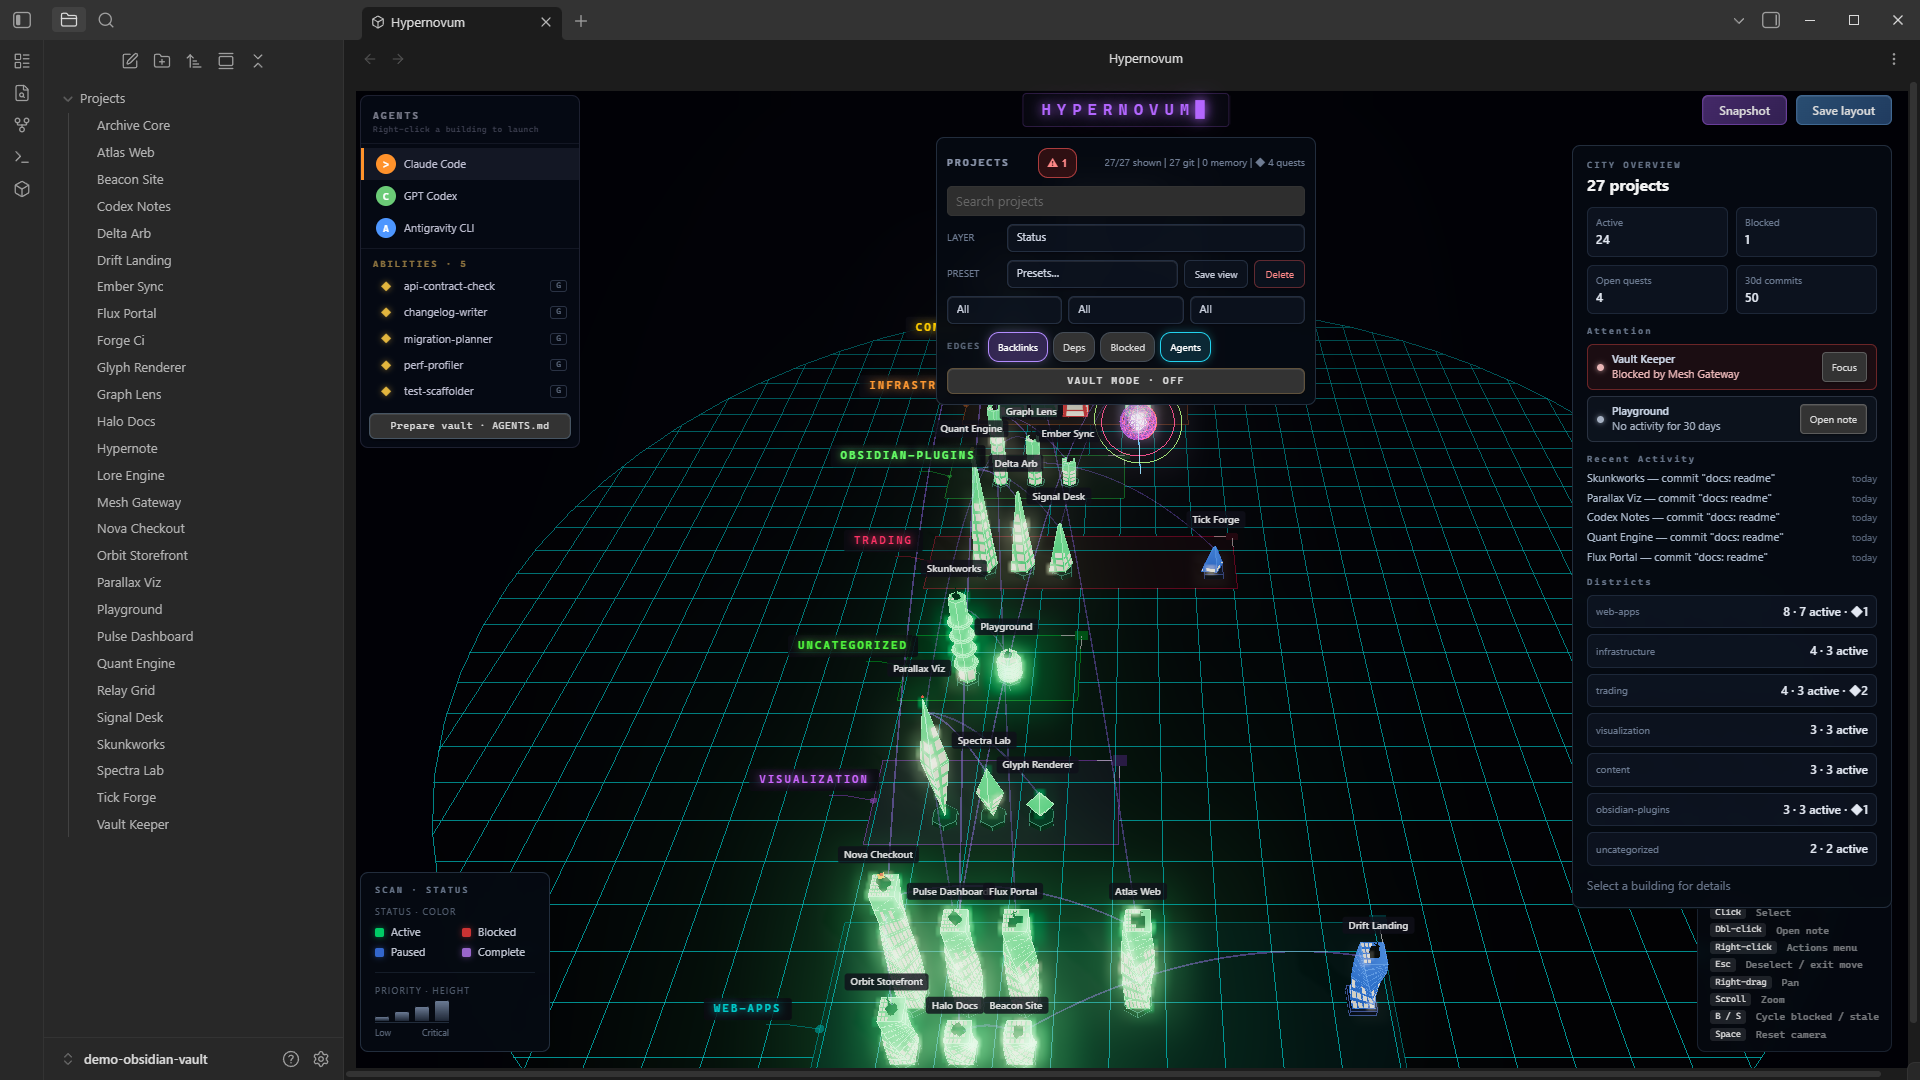
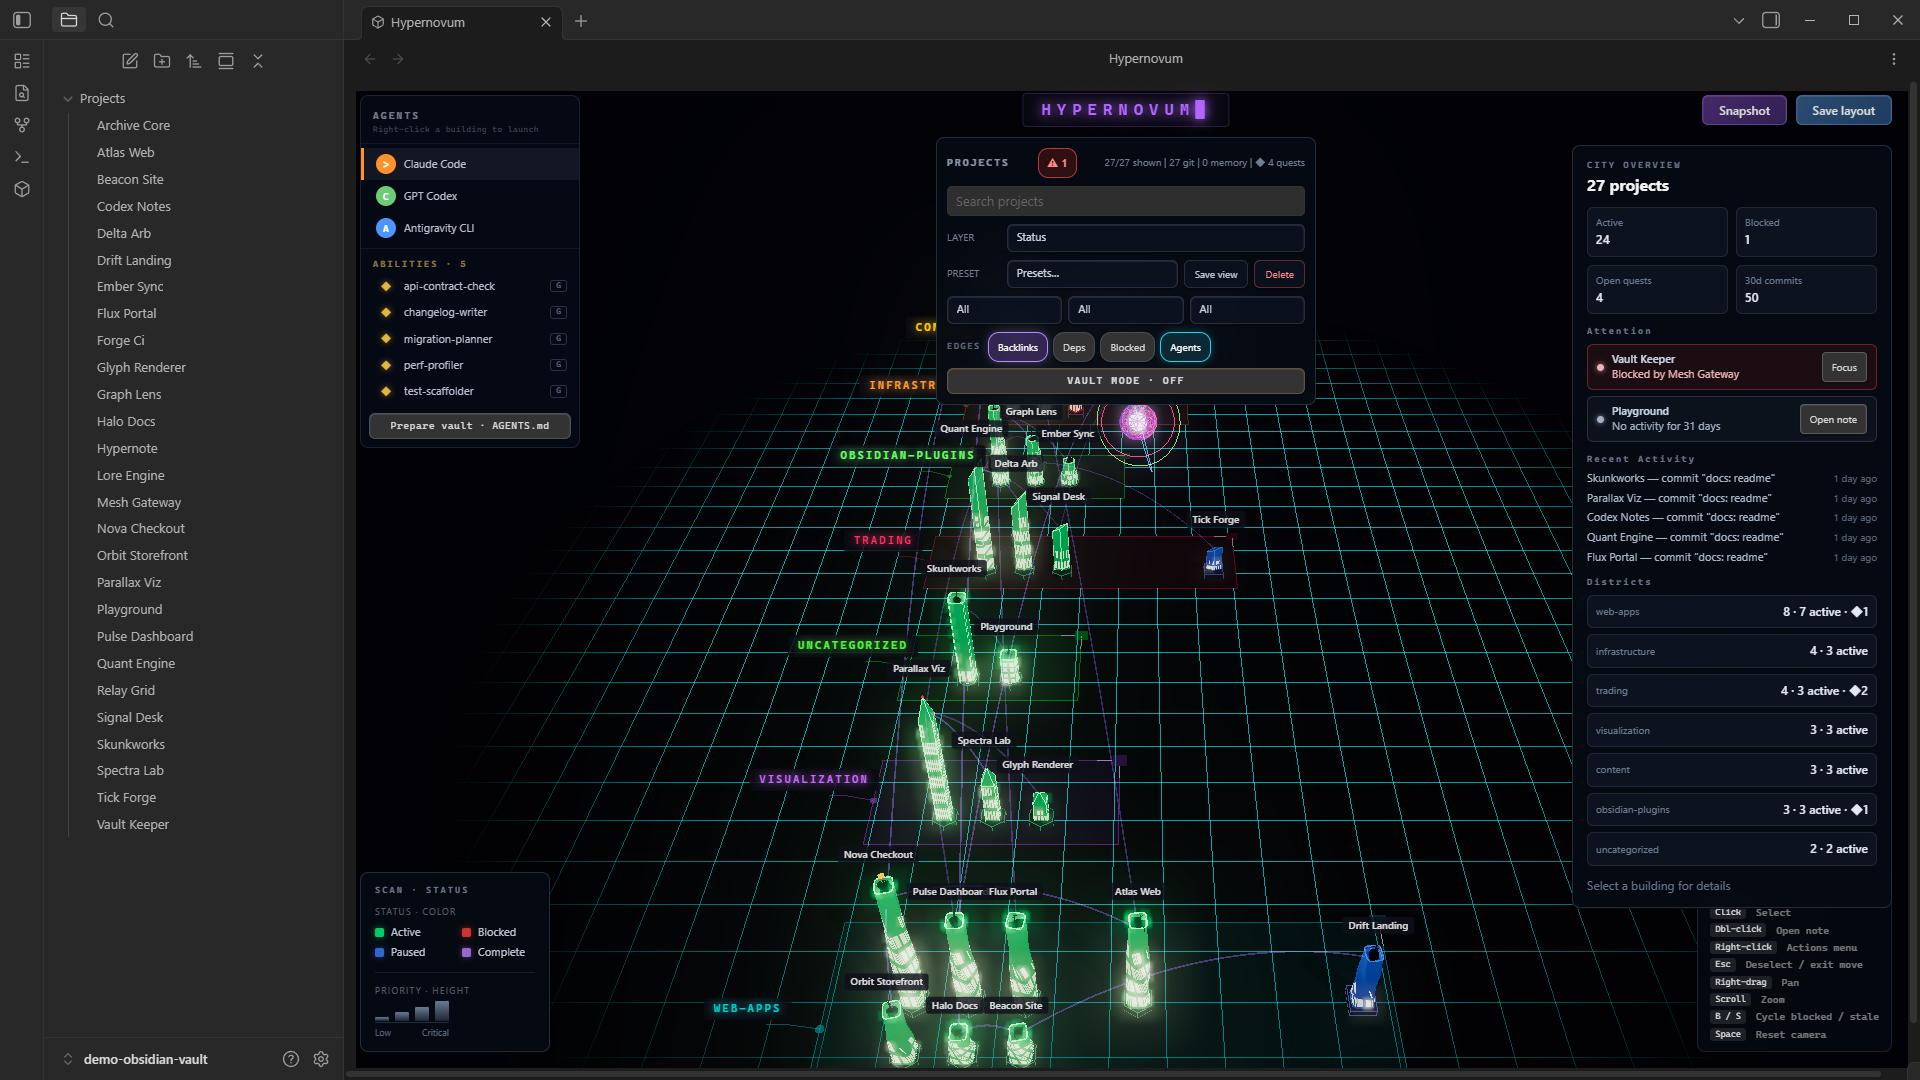
feat: make parametric buildings the default
Flipping DEFAULT_SETTINGS alone would have stranded every current user: they
all have `buildingStyle: 'classic'` persisted, so the new city would only
ever appear on fresh installs. Nobody chose classic deliberately — it WAS the
default and picking it was a no-op, so anyone who touched the setting chose
parametric. loadSettings carries a stored 'classic' over exactly once and
records that it did, so a user who then switches back to classic stays there.
Classic remains selectable and its code path is unchanged.

The listing screenshots were shot in classic this morning, so the default
flip made them stale again — all five are recaptured on the parametric city
with the faded grid. The README's feature list also still named the classic
silhouettes (helix towers, data shards, ziggurats...) and still called
parametric opt-in; both corrected.

Settings tests updated, plus four new ones covering the migration itself:
an existing install moves, a deliberate switch back to classic sticks, an
early adopter on parametric is left alone, and a fresh install just takes
the default. The test fixture that mirrors DEFAULT_SETTINGS by hand had
drifted — it is back in sync, which is the drift its own header warns about.

282 tests. Verified against the built bundle rather than the source: the
shipped main.js carries buildingStyle:"parametric" as its only default.

diff --git a/packages/obsidian-plugin/test/settings-merge.test.ts b/packages/obsidian-plugin/test/settings-merge.test.ts
@@ -13,6 +13,7 @@ const PLUGIN_DEFAULTS = {
   vaultMode: false,
   interactionHintShown: false,
   savedLenses: [],
+  buildingStyleMigrated: false,
 };
 
 describe('settings default-merge', () => {
@@ -26,7 +27,7 @@ describe('settings default-merge', () => {
     };
     const merged = Object.assign({}, PLUGIN_DEFAULTS, oldData);
 
-    expect(merged.buildingStyle).toBe('classic');
+    expect(merged.buildingStyle).toBe('parametric'); // default flipped in 0.4.2
     expect(merged.interactionHintShown).toBe(false);
     expect(merged.savedLenses).toEqual([]);
     // Existing values preserved
@@ -43,7 +44,7 @@ describe('settings default-merge', () => {
 
   it('empty data.json loads full defaults (fresh install)', () => {
     const merged = Object.assign({}, PLUGIN_DEFAULTS, {});
-    expect(merged.buildingStyle).toBe('classic');
+    expect(merged.buildingStyle).toBe('parametric'); // default flipped in 0.4.2
     expect(merged.vaultMode).toBe(false);
     expect(merged.savedLenses).toEqual([]);
     expect(merged.agentName).toBe('Claude Code');
@@ -59,7 +60,7 @@ describe('settings default-merge', () => {
     const merged = Object.assign({}, PLUGIN_DEFAULTS, midData);
     expect(merged.interactionHintShown).toBe(true);   // preserved
     expect(merged.vaultMode).toBe(true);              // preserved
-    expect(merged.buildingStyle).toBe('classic');     // filled
+    expect(merged.buildingStyle).toBe('parametric'); // default flipped in 0.4.2     // filled
     expect(merged.savedLenses).toEqual([]);           // filled
   });
 
@@ -72,5 +73,45 @@ describe('settings default-merge', () => {
     expect(merged.buildingStyle).toBe('parametric');
     expect(merged.savedLenses).toHaveLength(1);
     expect(merged.savedLenses[0].edgeTypes).toEqual(['blocked-by']);
+  });
+});
+
+
+// Mirrors the buildingStyle migration in HypernovumPlugin.loadSettings(). The
+// flip is only useful if EXISTING installs move too: they all have 'classic'
+// persisted, so changing DEFAULT_SETTINGS alone would strand every current
+// user on the old silhouettes.
+function migrateBuildingStyle(stored: Record<string, unknown> | null) {
+  const merged: Record<string, unknown> = { ...PLUGIN_DEFAULTS, ...(stored ?? {}) };
+  if (stored && !stored.buildingStyleMigrated) {
+    if (stored.buildingStyle === 'classic') merged.buildingStyle = 'parametric';
+    merged.buildingStyleMigrated = true;
+  }
+  return merged;
+}
+
+describe('buildingStyle 0.4.2 migration', () => {
+  it('carries an existing install off the old default exactly once', () => {
+    const m = migrateBuildingStyle({ buildingStyle: 'classic' });
+    expect(m.buildingStyle).toBe('parametric');
+    expect(m.buildingStyleMigrated).toBe(true);
+  });
+
+  it('a deliberate switch BACK to classic sticks', () => {
+    // Second load after the user chose classic post-migration.
+    const m = migrateBuildingStyle({ buildingStyle: 'classic', buildingStyleMigrated: true });
+    expect(m.buildingStyle).toBe('classic');
+  });
+
+  it('leaves an early adopter who already chose parametric alone', () => {
+    const m = migrateBuildingStyle({ buildingStyle: 'parametric' });
+    expect(m.buildingStyle).toBe('parametric');
+    expect(m.buildingStyleMigrated).toBe(true);
+  });
+
+  it('a fresh install needs no migration and takes the default', () => {
+    const m = migrateBuildingStyle(null);
+    expect(m.buildingStyle).toBe('parametric');
+    expect(m.buildingStyleMigrated).toBe(false);
   });
 });

diff --git a/packages/obsidian-plugin/src/settings/SettingsTab.ts b/packages/obsidian-plugin/src/settings/SettingsTab.ts
@@ -49,6 +49,8 @@ export interface HypernovumSettings extends CoreSettings {
   agentFeaturesConsent: AgentFeaturesConsent;
   /** Vault folder for generated briefings and snapshots ('' = vault root) */
   outputFolder: string;
+  /** The 0.4.2 classic→parametric default flip has already been applied once */
+  buildingStyleMigrated: boolean;
 }
 
 export const DEFAULT_SETTINGS: HypernovumSettings = {
@@ -61,6 +63,7 @@ export const DEFAULT_SETTINGS: HypernovumSettings = {
   viewLocation: 'tab',
   agentFeaturesConsent: 'unset',
   outputFolder: '',
+  buildingStyleMigrated: false,
 };
 
 export type { BlockPosition };
@@ -246,11 +249,11 @@ export class SettingsTab extends PluginSettingTab {
 
     new Setting(containerEl)
       .setName('Building style')
-      .setDesc('Classic silhouettes, or Parametric (beta) data-true towers whose window rows equal their floor count. Applies immediately to open city views.')
+      .setDesc('Parametric towers carry real massing and window rows equal to their floor count; Classic is the original silhouette set. Applies immediately to open city views.')
       .addDropdown((dropdown) => {
         dropdown
+          .addOption('parametric', 'Parametric')
           .addOption('classic', 'Classic')
-          .addOption('parametric', 'Parametric (beta)')
           .setValue(this.plugin.settings.buildingStyle)
           .onChange(async (value) => {
             this.plugin.settings.buildingStyle = value as 'classic' | 'parametric';

diff --git a/packages/obsidian-plugin/src/main.ts b/packages/obsidian-plugin/src/main.ts
@@ -297,6 +297,19 @@ export default class HypernovumPlugin extends Plugin {
       this.settings.agentFeaturesConsent = this.settings.vaultMode ? 'denied' : 'granted';
       await this.saveSettings();
     }
+
+    // Migration: parametric became the default in 0.4.2. Existing installs have
+    // 'classic' persisted, so flipping DEFAULT_SETTINGS alone would leave every
+    // current user on the old silhouettes forever. Nobody chose classic
+    // deliberately — it WAS the default and picking it was a no-op, so anyone
+    // who touched the setting chose parametric. Carry them over once, and
+    // record it, so that someone who then switches back to classic stays there.
+    const prior = stored as Partial<HypernovumSettings> | null;
+    if (prior && !prior.buildingStyleMigrated) {
+      if (prior.buildingStyle === 'classic') this.settings.buildingStyle = 'parametric';
+      this.settings.buildingStyleMigrated = true;
+      await this.saveSettings();
+    }
   }
 
   async saveSettings(): Promise<void> {

diff --git a/packages/core/src/types.ts b/packages/core/src/types.ts
@@ -195,5 +195,11 @@ export const DEFAULT_SETTINGS: HypernovumSettings = {
   bloomIntensity: 0.8,
   enableAtmosphere: true,
   enableGitActivity: true,
-  buildingStyle: 'classic',
+  // Parametric is the default as of 0.4.2. The classic silhouettes stayed the
+  // default while parametric was one profile modulated by ±12% — invisible at
+  // the 2–4 unit footprints and 4–7 floors the layout actually produces. It now
+  // expresses real massing (stacked, telescoped, clustered, spired, sheared),
+  // which is the frequency band a fixed high camera can resolve. Classic
+  // remains selectable and its code path is untouched.
+  buildingStyle: 'parametric',
 };

diff --git a/README.md b/README.md
@@ -65,7 +65,7 @@ backlink graph all still work.
 
 ### City visualization
 - **Bin-packed layout** with category districts, block outlines, and drag handles for rearranging
-- **Procedural architecture** — each category gets a unique silhouette (helix towers, data shards, ziggurats, quant blades, hex hives, memory cores)
+- **Procedural architecture** — seven silhouette families, one per category: spiral towers, stacked slabs, telescoping tiers, spires, sheared blades, hex clusters, and a quiet block for everything else
 - **Cyberpunk shader system** with procedural windows, decay dithering, and bloom post-processing
 - **Smart labels** with CSS2D rendering and leader lines
 - **Hover tooltips** showing status, priority, health, and tech stack
@@ -89,7 +89,7 @@ backlink graph all still work.
 - **Saved lens presets**: three defaults (Active Work / Needs Attention / Agents) plus "Save current view".
 - **EDGES chips** toggle the typed project graph: Backlinks · Deps · Blocked · Agents.
 - **Project inspector**: git signals + recent commits, warnings, dependency sections (Depends on / Used by / Blocked by / Blocks), agent activity, and a last-session digest. **City overview** (nothing selected) shows district analytics, an attention list, and a recent-activity feed.
-- **Building style** (settings): Classic silhouettes or **Parametric** data-true towers (opt-in, applies live).
+- **Building style** (settings): **Parametric** data-true towers — seven silhouette families whose window rows equal their real floor count — or the original **Classic** set. Applies live.
 - **Snapshot**: one click saves a clean cinematic PNG (title card, no HUD) into your vault.
 - **Drag handles** rearrange category blocks; **scroll** to zoom, **right-drag** to pan; **keyboard** cycles blocked/stale projects + resets camera.
 

diff --git a/CHANGELOG.md b/CHANGELOG.md
@@ -1,5 +1,26 @@
 # Changelog
 
+## Unreleased
+
+### Changed
+
+- **Parametric buildings are now the default silhouette set.** Seven families —
+  spiral, stacked slabs, telescoping tiers, spire, sheared blade, hex cluster and
+  a quiet block — replace the previous set, which was one profile modulated by
+  ±12% and therefore invisible at the footprints and floor counts the layout
+  actually produces. Existing installs are migrated once; the setting still
+  offers **Classic**, whose code path is unchanged, and switching back sticks.
+- Buildings gained real lighting, parapets with recessed dark roof decks, and
+  perimeter-aware window columns.
+- The edge glow no longer overwhelms the buildings it outlines at city zoom.
+- The ground grid fades out radially instead of stopping at a drawn circle.
+
+### Removed
+
+- The leaning building family, and the `lean`, `waist`, `bulge` and `crown`
+  shape parameters — each was sub-visible at real building sizes.
+
+
 ## 0.4.0 — 3D-IDE overhaul + publish readiness (2026-07-25)
 
 ### Fixed — agent presence actually works when installed
